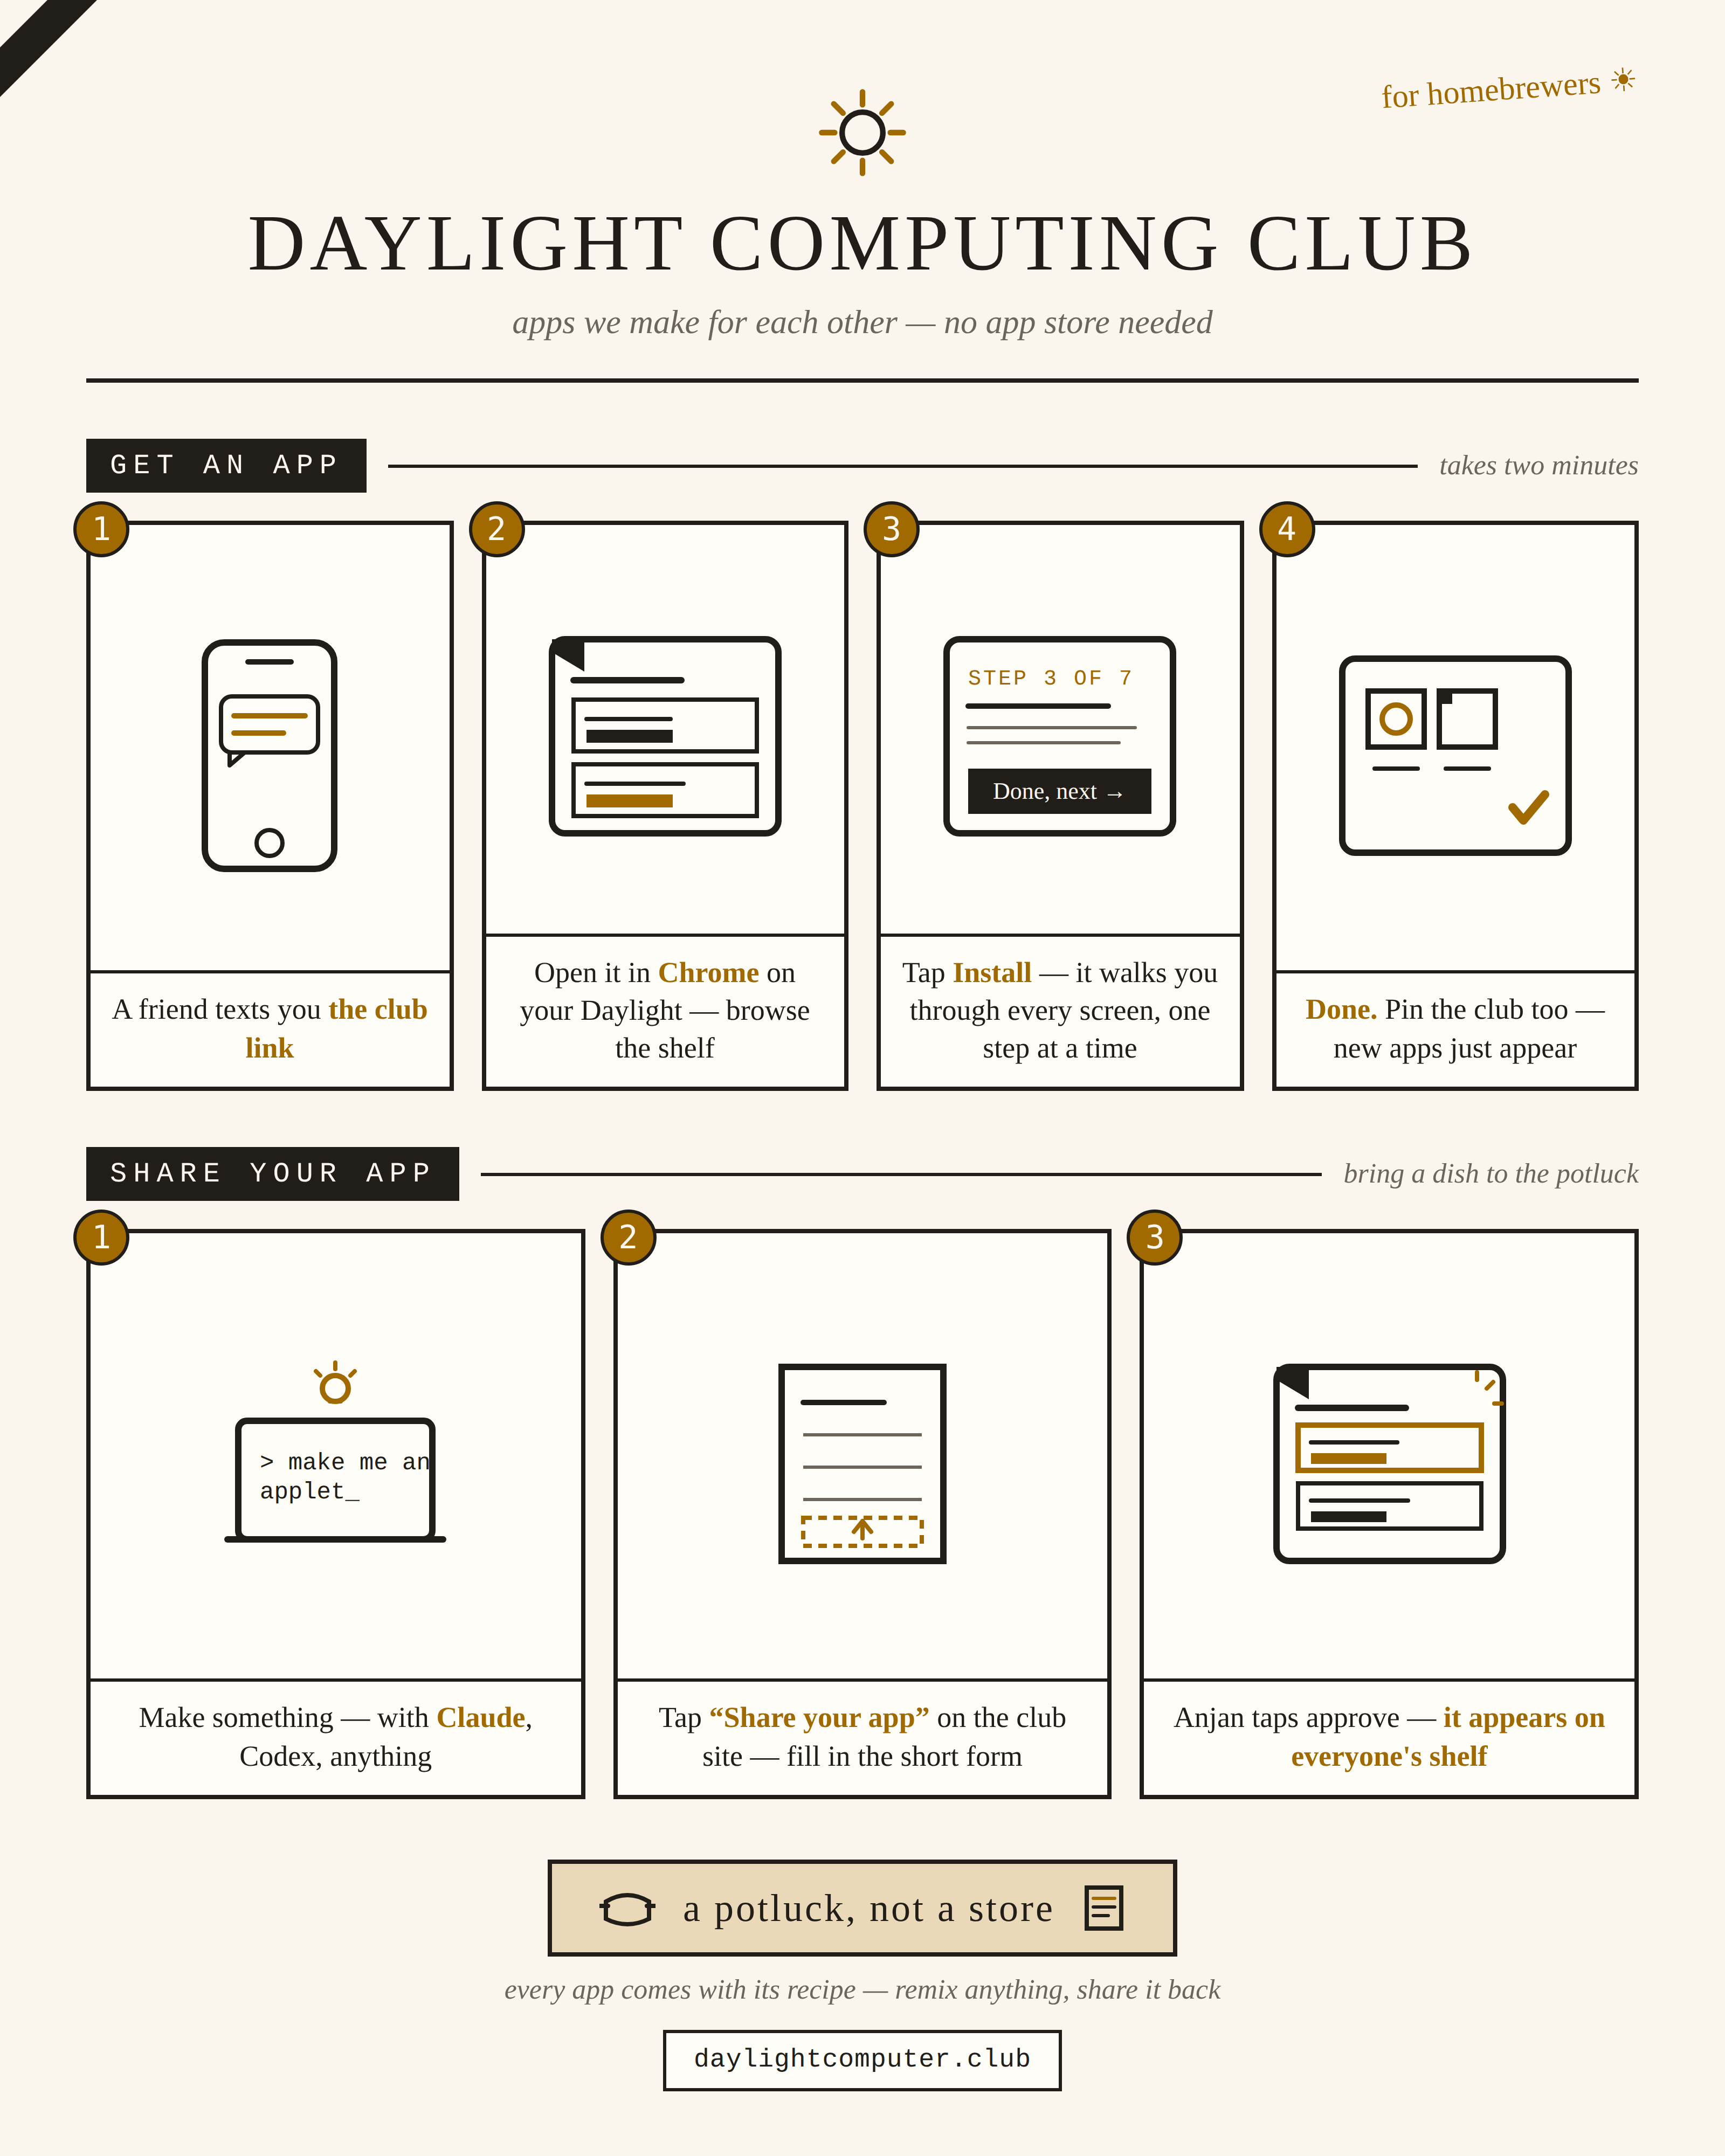
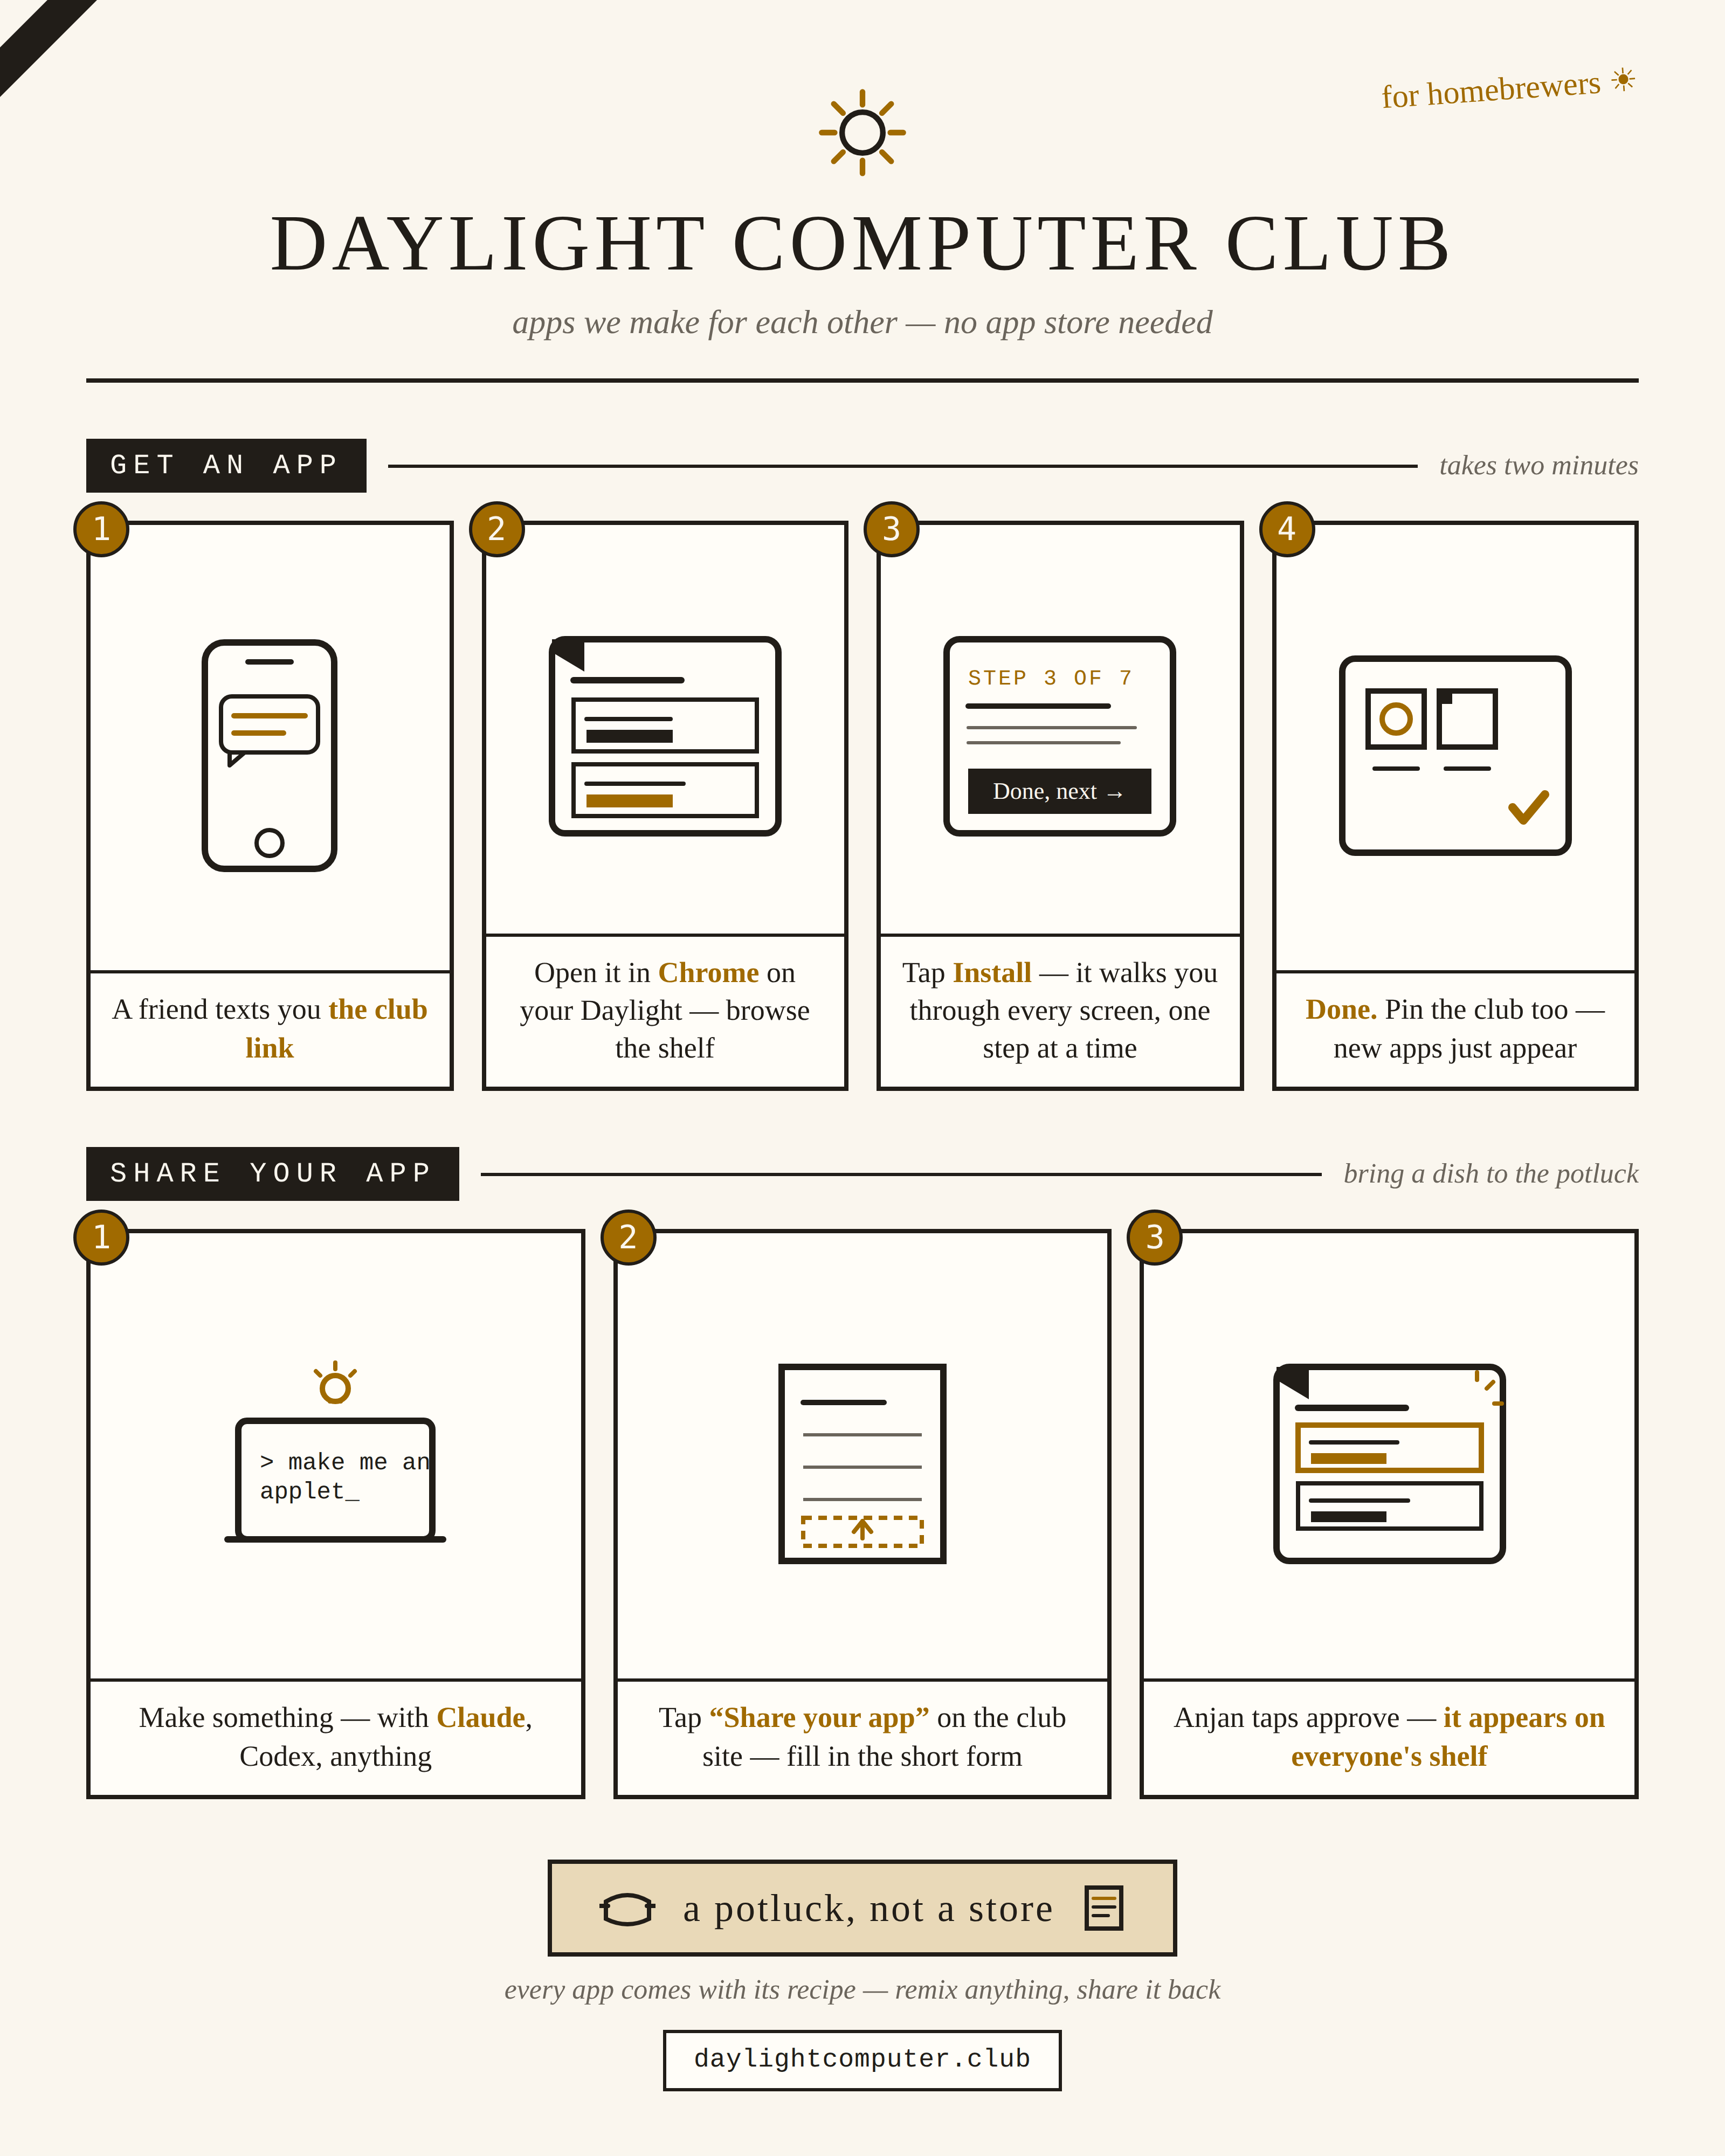
Rename: Daylight Computer Club (after the Homebrew Computer Club)
Computing → Computer across the site, manifest, poster, docs, robot
messages, and reviewer prompt. Claude sessions still recognize the old
'daylight computing club' phrasing. Repo URLs keep the old name until
the repo itself is renamed.

Claude-Session: https://claude.ai/code/session_0199XoPXaDxvftcW394FwR68

Changed region(s): [[0.125, 0.0938, 0.875, 0.125]]

diff --git a/site/index.html b/site/index.html
@@ -3,7 +3,7 @@
 <head>
 <meta charset="utf-8">
 <meta name="viewport" content="width=device-width, initial-scale=1">
-<title>Daylight Computing Club</title>
+<title>Daylight Computer Club</title>
 <link rel="stylesheet" href="style.css">
 <link rel="manifest" href="manifest.webmanifest">
 <link rel="icon" href="icons/icon-192.png">
@@ -15,7 +15,7 @@
   <header class="club">
     <a class="club-mark" href="./">
       <img src="icons/icon-192.png" alt="">
-      <h1>Daylight&nbsp;Computing&nbsp;Club</h1>
+      <h1>Daylight&nbsp;Computer&nbsp;Club</h1>
     </a>
     <p class="club-tagline" id="tagline">Homebrew apps for your Daylight, shared between friends.</p>
   </header>

diff --git a/site/install.html b/site/install.html
@@ -3,7 +3,7 @@
 <head>
 <meta charset="utf-8">
 <meta name="viewport" content="width=device-width, initial-scale=1">
-<title>Install — Daylight Computing Club</title>
+<title>Install — Daylight Computer Club</title>
 <link rel="stylesheet" href="style.css">
 <link rel="icon" href="icons/icon-192.png">
 <meta name="theme-color" content="#ffffff">
@@ -46,7 +46,7 @@ fetch('apps.json').then(r => r.json()).then(data => {
     return;
   }
   $('app-title').textContent = app.name;
-  document.title = app.name + ' — Daylight Computing Club';
+  document.title = app.name + ' — Daylight Computer Club';
   steps = app.type === 'apk' ? apkSteps(app) : pwaSteps(app);
   idx = Math.min(parseInt(localStorage.getItem(storageKey()) || '0', 10), steps.length - 1);
   render();

diff --git a/site/share.html b/site/share.html
@@ -3,7 +3,7 @@
 <head>
 <meta charset="utf-8">
 <meta name="viewport" content="width=device-width, initial-scale=1">
-<title>Share your app — Daylight Computing Club</title>
+<title>Share your app — Daylight Computer Club</title>
 <link rel="stylesheet" href="style.css">
 <link rel="icon" href="icons/icon-192.png">
 <meta name="theme-color" content="#ffffff">
@@ -44,7 +44,7 @@
     <p>If you built your app in Claude Code, you're one prompt away. Copy
     this, paste it into your Claude Code session, and fill in the blanks:</p>
 
-    <pre class="copyblock" id="claude-prompt">Add my app to the Daylight Computing Club catalog.
+    <pre class="copyblock" id="claude-prompt">Add my app to the Daylight Computer Club catalog.
 
 The club repo is https://github.com/a12k-a2b/daylight-computing-club-community-hub — the site lives in the
 site/ folder and the catalog is site/apps.json.

diff --git a/poster/club-poster-source.html b/poster/club-poster-source.html
@@ -136,7 +136,7 @@
         </g>
       </svg>
     </div>
-    <h1>DAYLIGHT COMPUTING CLUB</h1>
+    <h1>DAYLIGHT COMPUTER CLUB</h1>
     <p class="subtitle">apps we make for each other — no app store needed</p>
   </div>
 

diff --git a/site/style.css b/site/style.css
@@ -1,4 +1,4 @@
-/* Daylight Computing Club — designed for the DC-1's monochrome reflective LCD.
+/* Daylight Computer Club — designed for the DC-1's monochrome reflective LCD.
    Rules of the road: pure grayscale, high contrast, real borders instead of
    shadows, no gradients, no animation (ghosting), big touch targets. */
 

diff --git a/site/sw.js b/site/sw.js
@@ -1,4 +1,4 @@
-// Daylight Computing Club service worker.
+// Daylight Computer Club service worker.
 // Shell files: cache-first so the club opens instantly (and offline).
 // apps.json: network-first so new apps show up as soon as they're shelved.
 // APK files: never cached — always a fresh download.

diff --git a/CLAUDE.md b/CLAUDE.md
@@ -1,4 +1,4 @@
-# Daylight Computing Club — instructions for Claude sessions
+# Daylight Computer Club — instructions for Claude sessions
 
 This repo is a static app-sharing site ("the club") for Daylight DC-1
 tablets. The site lives in `site/`, needs no build step, and deploys on
@@ -19,8 +19,9 @@ ANTHROPIC_API_KEY secret) and an emulator crash/memory smoke test
 
 All of these phrasings (and anything similar) mean the same request:
 "share it with the club", "share it with the DCC", "share it with
-Daylight Computing Club" / "daylight computer club", "share it with the
-computer club", "shelve it", "add it to the shelf/club/hub".
+Daylight Computer Club" / "daylight computer club", "share it with the
+computer club", "shelve it", "add it to the shelf/club/hub" —
+and the old name "daylight computing club" still means this club too.
 
 That means: add the app to the catalog so it appears on the shelf. Steps:
 

diff --git a/README.md b/README.md
@@ -1,6 +1,6 @@
-# Daylight Computing Club
+# Daylight Computer Club
 
-A homebrew-computing-club-style sharing place for apps we make for our
+A homebrew-computer-club-style sharing place for apps we make for our
 [Daylight DC-1](https://daylightcomputer.com) tablets. Not an app store — a
 potluck. Everything is vibecoded, open source, and shared between friends.
 

diff --git a/ROADMAP.md b/ROADMAP.md
@@ -1,4 +1,4 @@
-# Roadmap — Daylight Computing Club
+# Roadmap — Daylight Computer Club
 
 The intent, in one line: **the future of sharing open-source, bespoke,
 personalized software we make for each other** — with Claude Code, Codex,
@@ -42,7 +42,7 @@ One static site on GitHub Pages. No backend, no accounts, no build step.
   repos (dc1-keys already builds with plain `javac` + `aapt2`, no Gradle) and
   signs with the club key, so "push to app repo" → "new version on the
   shelf" with no laptop involved.
-- **Nicer address** — rename the repo (`daylight-computing-club`), or put a
+- **Nicer address** — rename the repo (`daylight-computer-club-community-hub`), or put a
   real domain in front (`dcc.whatever.com`) via Pages custom domains.
 
 ## v1 — Friends sharing with friends